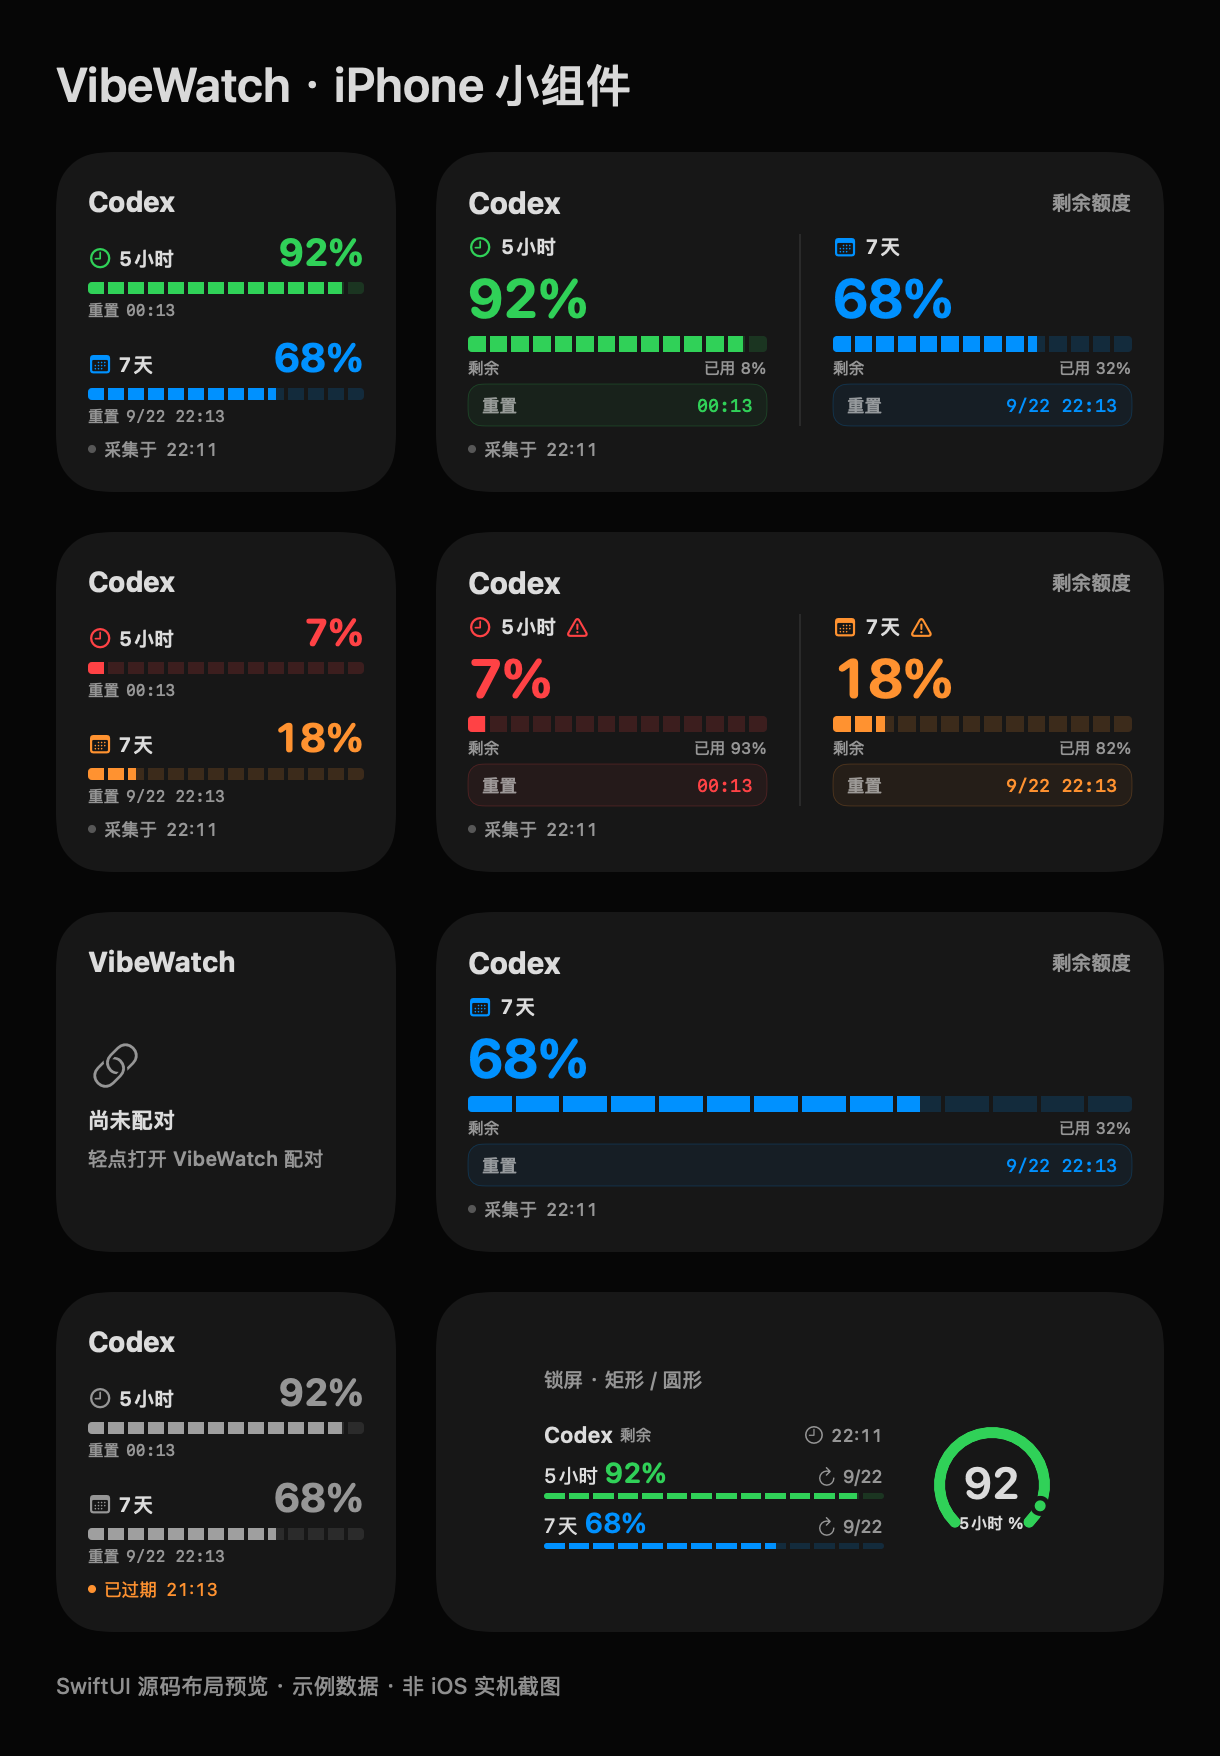
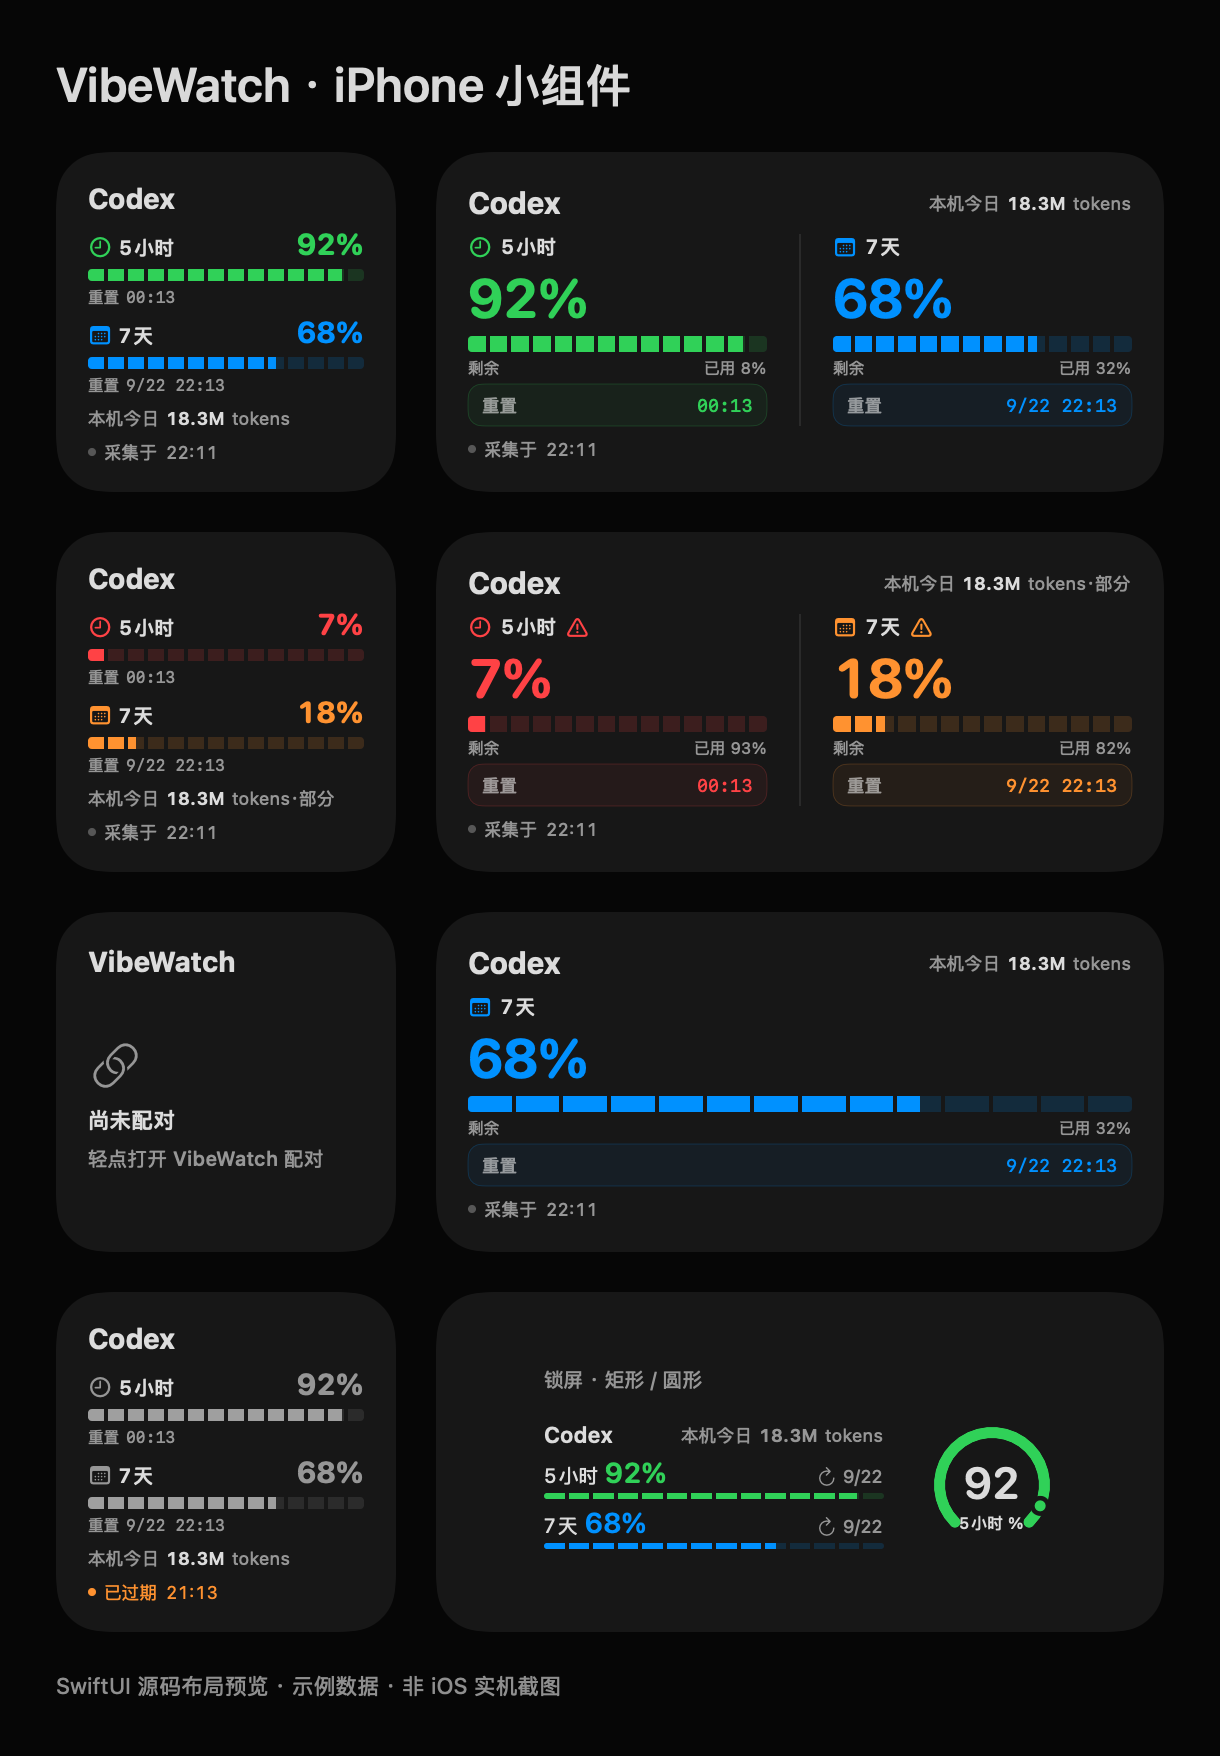
feat: show local daily tokens alongside widget quotas

diff --git a/apple/Shared/WatchQuotaViews.swift b/apple/Shared/WatchQuotaViews.swift
@@ -129,17 +129,24 @@ struct RectangularQuotaView: View {
     let bucket: QuotaBucket
     let date: Date
     var unavailable = false
+    var showUsage = false
     var body: some View {
         VStack(alignment: .leading, spacing: 3) {
             HStack(spacing: 3) {
                 Text(bucket.name).font(.system(size: 11, weight: .semibold)).foregroundStyle(.primary).lineLimit(1)
-                Text("剩余").font(.system(size: 8))
+                if !showUsage { Text("剩余").font(.system(size: 8)) }
                 Spacer(minLength: 0)
-                if snapshot.isStale(at: date) { Text("已过期").foregroundStyle(.orange) }
+                if showUsage {
+                    WidgetUsageSummary(usage: snapshot.usage, date: date)
+                    if snapshot.isStale(at: date) || unavailable || snapshot.ordinaryUsageAllowed == false {
+                        Image(systemName: "exclamationmark.triangle").foregroundStyle(.orange)
+                            .accessibilityLabel(snapshot.isStale(at: date) ? "数据已过期" : unavailable ? "离线缓存" : "普通额度不可用")
+                    }
+                } else if snapshot.isStale(at: date) { Text("已过期").foregroundStyle(.orange) }
                 else if unavailable { Text("缓存").foregroundStyle(.orange) }
                 else if snapshot.ordinaryUsageAllowed == false { Text("不可用").foregroundStyle(.orange) }
                 else { Image(systemName: "clock") }
-                Text(snapshot.collectedDate, style: .time).monospacedDigit()
+                if !showUsage { Text(snapshot.collectedDate, style: .time).monospacedDigit() }
             }.font(.system(size: 9)).foregroundStyle(.secondary)
             if let primary = bucket.primary { row(primary, title: "主", secondary: false) }
             if let secondary = bucket.secondary { row(secondary, title: "次", secondary: true) }
@@ -199,5 +206,23 @@ struct CircularQuotaView: View {
                 }
             }
         }.accessibilityLabel("\(bucket?.name ?? "额度")，\(window?.durationLabel ?? "窗口未知")剩余 \(window?.remaining.map { String(format: "%.0f%%", $0) } ?? "未知")，\(label)")
+    }
+}
+
+/// Account-wide local-session summary, independent of the selected quota bucket.
+struct WidgetUsageSummary: View {
+    let usage: LocalUsage?
+    let date: Date
+    var body: some View {
+        HStack(spacing: 3) {
+            Text(usage?.isCurrent(at: date) == false ? "本机上次" : "本机今日").foregroundStyle(.secondary)
+            Text(usage.map { LocalUsage.compact($0.totalTokens) } ?? "—")
+                .fontWeight(.semibold).monospacedDigit()
+            Text(usage?.partial == true ? "tokens·部分" : "tokens").foregroundStyle(.secondary)
+        }.font(.system(size: 9)).lineLimit(1).minimumScaleFactor(0.65)
+            .accessibilityElement(children: .ignore)
+            .accessibilityLabel(usage.map {
+                "本机" + ($0.isCurrent(at: date) ? "今日" : "上次") + "消耗 \($0.totalTokens) tokens" + ($0.partial ? "，部分记录" : "")
+            } ?? "本机今日 token 用量暂无数据")
     }
 }

diff --git a/scripts/render_phone_widget_preview.swift b/scripts/render_phone_widget_preview.swift
@@ -4,10 +4,15 @@ import SwiftUI
 
 let previewDate = Date(timeIntervalSince1970: 1790000000)
 func sample(weeklyOnly: Bool = false, stale: Bool = false, low: Bool = false) -> QuotaSnapshot {
-    QuotaSnapshot(schemaVersion: 1, collectedAt: previewDate.timeIntervalSince1970 - (stale ? 3600 : 120),
+    var snapshot = QuotaSnapshot(schemaVersion: 1, collectedAt: previewDate.timeIntervalSince1970 - (stale ? 3600 : 120),
         ordinaryUsageAllowed: nil, buckets: [QuotaBucket(limitId: "codex", limitName: "Codex",
             primary: weeklyOnly ? nil : QuotaWindow(usedPercent: low ? 93 : 8, windowDurationMins: 300, resetsAt: previewDate.timeIntervalSince1970 + 7200),
             secondary: QuotaWindow(usedPercent: low ? 82 : 32, windowDurationMins: 10080, resetsAt: previewDate.timeIntervalSince1970 + 86400))])
+    let start = previewDate.timeIntervalSince1970 - 22 * 3600
+    snapshot.usage = LocalUsage(periodStart: start, periodEnd: start + 86400, utcOffsetMinutes: 480,
+        inputTokens: 8_400_000, cachedInputTokens: 3_700_000, outputTokens: 6_200_000, totalTokens: 18_300_000,
+        hours: [], source: "local", partial: low, model: nil, reasoningEffort: nil, lastActivityAt: nil)
+    return snapshot
 }
 struct WidgetPreview: View {
     let dark: Bool
@@ -28,7 +33,7 @@ struct WidgetPreview: View {
                 VStack(alignment: .leading, spacing: 10) {
                     Text("锁屏 · 矩形 / 圆形").font(.caption).foregroundStyle(.secondary)
                     HStack(spacing: 22) {
-                        RectangularQuotaView(snapshot: sample(), bucket: sample().buckets[0], date: previewDate)
+                        RectangularQuotaView(snapshot: sample(), bucket: sample().buckets[0], date: previewDate, showUsage: true)
                             .frame(width: 170, height: 72)
                         CircularQuotaView(snapshot: sample(), bucket: sample().buckets[0], date: previewDate, paired: true)
                             .frame(width: 64, height: 64)

diff --git a/apple/Shared/PhoneWidgetViews.swift b/apple/Shared/PhoneWidgetViews.swift
@@ -18,12 +18,12 @@ struct PhoneQuotaWidgetContent: View {
                     .font(.system(size: compact ? 14 : 15, weight: .bold))
                 Spacer(minLength: 0)
                 if !compact {
-                    Text("剩余额度").font(.system(size: 10, weight: .medium)).foregroundStyle(.secondary)
+                    WidgetUsageSummary(usage: snapshot?.usage, date: date)
                 }
             }.lineLimit(1).minimumScaleFactor(0.8)
             if let snapshot, let bucket, bucket.displayWindow != nil {
                 if compact {
-                    VStack(spacing: 7) {
+                    VStack(spacing: 4) {
                         if let primary = bucket.primary { smallRow(primary, snapshot: snapshot, secondary: false) }
                         if let secondary = bucket.secondary { smallRow(secondary, snapshot: snapshot, secondary: true) }
                     }.frame(maxHeight: .infinity, alignment: .center)
@@ -34,6 +34,7 @@ struct PhoneQuotaWidgetContent: View {
                         if let secondary = bucket.secondary { column(secondary, snapshot: snapshot, secondary: true) }
                     }.frame(maxHeight: .infinity, alignment: .center)
                 }
+                if compact { WidgetUsageSummary(usage: snapshot.usage, date: date) }
                 HStack(spacing: 4) {
                     Circle().fill(warning(snapshot) ? Color.orange : Color.secondary.opacity(0.5)).frame(width: 4, height: 4)
                     Text(snapshot.isStale(at: date) ? "已过期" : unavailable ? "离线缓存" : snapshot.ordinaryUsageAllowed == false ? "额度不可用" : "采集于")

diff --git a/apple/Tests/ModelsTests.swift b/apple/Tests/ModelsTests.swift
@@ -16,6 +16,9 @@ final class ModelsTests: XCTestCase {
         XCTAssertFalse(restored.usage!.isCurrent(at: Date(timeIntervalSince1970: 86500)))
         XCTAssertTrue(restored.usage!.isCurrent(at: Date(timeIntervalSince1970: 100)))
         XCTAssertEqual(LocalUsage.compact(18_300_000), "18.3M")
+        let midnight = Date(timeIntervalSince1970: 86500)
+        XCTAssertTrue(snapshot.transitionDates(after: Date(timeIntervalSince1970: 200)).contains(midnight))
+        XCTAssertFalse(snapshot.transitionDates(after: midnight).contains(midnight))
     }
     func example() throws -> QuotaSnapshot {
         let root = URL(fileURLWithPath: #filePath).deletingLastPathComponent().deletingLastPathComponent().deletingLastPathComponent()

diff --git a/apple/PhoneWidgets/VibeWatchPhoneWidgets.swift b/apple/PhoneWidgets/VibeWatchPhoneWidgets.swift
@@ -13,7 +13,7 @@ struct PhoneQuotaWidgetView: View {
                                   unavailable: entry.unavailable, paired: entry.paired)
             } else if family == .accessoryRectangular {
                 if let snapshot, let bucket {
-                    RectangularQuotaView(snapshot: snapshot, bucket: bucket, date: entry.date, unavailable: entry.unavailable)
+                    RectangularQuotaView(snapshot: snapshot, bucket: bucket, date: entry.date, unavailable: entry.unavailable, showUsage: true)
                 } else {
                     VStack(alignment: .leading) {
                         Text("VibeWatch").font(.headline)

diff --git a/apple/Shared/Models.swift b/apple/Shared/Models.swift
@@ -57,7 +57,8 @@ struct QuotaSnapshot: Codable, Equatable, Sendable {
     }
     func transitionDates(after now: Date) -> [Date] {
         let resets = buckets.flatMap { [$0.primary?.resetsAt, $0.secondary?.resetsAt].compactMap { $0 } }
-        return Array(Set([collectedAt + Self.staleInterval] + resets))
+        let usageBoundary = usage.map { [$0.periodEnd] } ?? []
+        return Array(Set([collectedAt + Self.staleInterval] + resets + usageBoundary))
             .filter { $0 > now.timeIntervalSince1970 }
             .sorted().map { Date(timeIntervalSince1970: $0) }
     }

diff --git a/docs/PLAN.md b/docs/PLAN.md
@@ -33,3 +33,7 @@
 对齐 Watch 看板：桌面小号双行分段额度、中号双列大数字与重置卡片；共享锁屏矩形使用分段条。保留深浅色、单窗口、未知/过期/不可用语义，不改同步与刷新策略。使用真实展示源码生成多状态预览并完成四目标编译验证。
 
 视觉优化已实现，深浅色源码预览已检查，四目标真机 SDK 无签名编译通过；0.1.0（10）已正式签名发布，Apple 状态 VALID / IN_BETA_TESTING，内部组访问已确认。
+
+## 组件今日用量
+
+桌面小号/中号和手机锁屏矩形增加本机 token 汇总；缺失不当作 0，部分与跨日明确标注。时间线增加统计日边界，模型测试覆盖切换。已检查源码布局预览，待下次 TF 发布。

diff --git a/docs/PHONE-WIDGETS.md b/docs/PHONE-WIDGETS.md
@@ -29,3 +29,9 @@
 ![深色手机小组件](assets/phone-widgets-dark.png)
 
 [查看浅色预览](assets/phone-widgets-light.png)。build 10 已包含此次排版优化。
+
+## 今日 tokens（下一版）
+
+桌面小号、中号及手机锁屏矩形同时显示本机今日消耗总 tokens（输入、缓存与输出之和，缓存不重复计算），圆形保留单窗口额度仪表。数据来自 Mac 的可选本机汇总，不代表账号所有设备或当前 bucket 独占用量。
+
+没有统计时显示 —，部分记录带“部分”提示；跨过 Mac 当地统计日边界后显示“本机上次”。时间线预排日界线切换，旧快照不会继续标成今日；数据过期仍保留提示。当前 TestFlight build 10 尚未包含此项。
